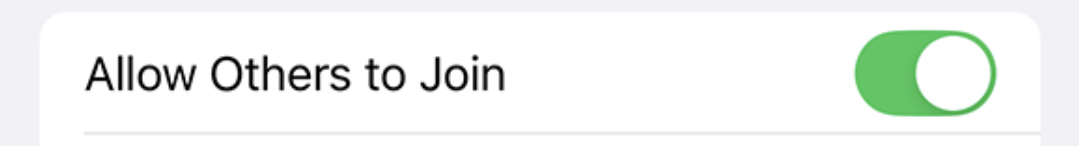
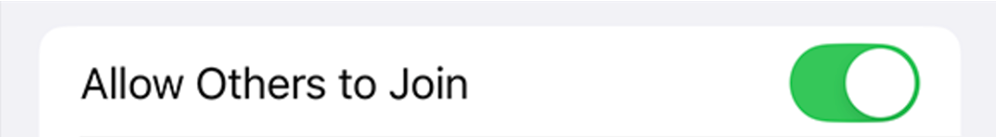
initial setup, setup tethering style for ios

Changed region(s): [[0.0622, 0.3796, 0.4669, 0.7299], [0.7781, 0.2044, 0.9337, 0.9051]]

diff --git a/lib/src/view/setup_tethering_screen.dart b/lib/src/view/setup_tethering_screen.dart
@@ -15,25 +15,27 @@ class SetupTetheringScreen extends StatelessWidget {
           mainAxisAlignment: MainAxisAlignment.center,
           crossAxisAlignment: CrossAxisAlignment.stretch,
           children: [
+            const Spacer(),
             Text(
-              'Set up personal hotspot',
+              'Set up Bluetooth Connection',
               textAlign: TextAlign.start,
               style: Theme.of(context).textTheme.titleLarge!.copyWith(fontWeight: FontWeight.bold),
             ),
-            Spacer(),
+            const SizedBox(height: 40),
             Platform.isIOS ? _buildIOSHotspotSteps(context) : _buildAndroidHotspotSteps(context),
-            Spacer(),
+            const SizedBox(height: 24),
             Text(
-              "Once you've completed these steps, come back to this screen and tap \"Continue\".",
+              "Come back to this page when you’re done.",
               textAlign: TextAlign.start,
               style: Theme.of(context).textTheme.bodyLarge,
               overflow: TextOverflow.visible,
             ),
-            Spacer(),
+            const Spacer(),
+            const Spacer(),
             FilledButton(
               onPressed: onCtaTapped,
               child: Text(
-                'Continue',
+                'Next',
                 style: TextStyle(fontWeight: FontWeight.bold),
               ),
             ),
@@ -49,33 +51,24 @@ class SetupTetheringScreen extends StatelessWidget {
     return Column(
       crossAxisAlignment: CrossAxisAlignment.start,
       children: [
-        StepTile(
-          stepNumber: '1',
-          onTap: null,
-          children: [
-            const TextSpan(text: 'In your phone\'s settings, go to '),
-            TextSpan(text: 'Settings', style: textTheme!.copyWith(fontStyle: FontStyle.italic)),
-            const TextSpan(text: ' > '),
-            TextSpan(text: 'Personal Hotspot', style: textTheme.copyWith(fontWeight: FontWeight.bold)),
-            const TextSpan(text: '\n\nMake sure "'),
-            TextSpan(text: 'Allow Others to Join', style: textTheme.copyWith(fontWeight: FontWeight.bold)),
-            const TextSpan(text: "\" is enabled"),
-          ],
+        RichText(
+          text: TextSpan(
+            style: textTheme,
+            children: [
+              const TextSpan(text: 'In your phone\'s settings, go to '),
+              TextSpan(text: 'Settings', style: textTheme!.copyWith(fontStyle: FontStyle.italic)),
+              const TextSpan(text: ' > '),
+              TextSpan(text: 'Personal Hotspot.', style: textTheme.copyWith(fontWeight: FontWeight.bold)),
+              const TextSpan(text: '\n\nMake sure "'),
+              TextSpan(text: 'Allow Others to Join', style: textTheme.copyWith(fontWeight: FontWeight.bold)),
+              const TextSpan(text: "\" is enabled:"),
+            ],
+          ),
         ),
-        Image.asset('packages/viam_flutter_bluetooth_provisioning_widget/lib/src/assets/ios_wifi_hotspot.png'),
+        const SizedBox(height: 24),
+        Text("The toggle should look like this:", style: Theme.of(context).textTheme.bodySmall),
         const SizedBox(height: 8),
-        StepTile(
-          stepNumber: '2',
-          onTap: null,
-          children: [
-            const TextSpan(text: 'Go to '),
-            TextSpan(text: 'Settings', style: textTheme.copyWith(fontStyle: FontStyle.italic)),
-            const TextSpan(text: ' > '),
-            TextSpan(text: 'Bluetooth.', style: textTheme.copyWith(fontWeight: FontWeight.bold)),
-            TextSpan(text: 'You should see your $machineName.'),
-            const TextSpan(text: '\n\nTap to pair, and accept any pairing dialogs that pop up.'),
-          ],
-        ),
+        Image.asset('packages/viam_flutter_bluetooth_provisioning_widget/lib/src/assets/ios_wifi_hotspot.png'),
       ],
     );
   }
@@ -86,33 +79,22 @@ class SetupTetheringScreen extends StatelessWidget {
     return Column(
       crossAxisAlignment: CrossAxisAlignment.start,
       children: [
-        StepTile(
-          stepNumber: '1',
-          onTap: null,
-          children: [
-            const TextSpan(text: "In your phone's settings, go to "),
-            TextSpan(text: "Network & internet", style: textTheme!.copyWith(fontWeight: FontWeight.bold)),
-            const TextSpan(text: ", then "),
-            TextSpan(text: "Hotspot & tethering", style: textTheme.copyWith(fontWeight: FontWeight.bold)),
-            const TextSpan(text: '\n\nMake sure '),
-            TextSpan(text: 'Bluetooth tethering', style: textTheme.copyWith(fontWeight: FontWeight.bold)),
-            const TextSpan(text: " is enabled"),
-          ],
+        RichText(
+          text: TextSpan(
+            style: textTheme,
+            children: [
+              TextSpan(text: '1. ', style: textTheme!.copyWith(fontWeight: FontWeight.bold)),
+              const TextSpan(text: "In your phone's settings, go to "),
+              TextSpan(text: "Network & internet", style: textTheme.copyWith(fontWeight: FontWeight.bold)),
+              const TextSpan(text: ", then "),
+              TextSpan(text: "Hotspot & tethering", style: textTheme.copyWith(fontWeight: FontWeight.bold)),
+              const TextSpan(text: '\n\nMake sure '),
+              TextSpan(text: 'Bluetooth tethering', style: textTheme.copyWith(fontWeight: FontWeight.bold)),
+              const TextSpan(text: " is enabled"),
+            ],
+          ),
         ),
         Image.asset('packages/viam_flutter_bluetooth_provisioning_widget/lib/src/assets/android_wifi_hotspot.png'),
-        const SizedBox(height: 8),
-        StepTile(
-          stepNumber: '2',
-          onTap: null,
-          children: [
-            const TextSpan(text: 'Go to '),
-            TextSpan(text: 'Settings', style: textTheme.copyWith(fontStyle: FontStyle.italic)),
-            const TextSpan(text: ' > '),
-            TextSpan(text: 'Bluetooth.', style: textTheme.copyWith(fontWeight: FontWeight.bold)),
-            TextSpan(text: 'You should see your $machineName.'),
-            const TextSpan(text: '\n\nTap to pair, and accept any pairing dialogs that pop up.'),
-          ],
-        ),
       ],
     );
   }

diff --git a/lib/src/flow/bluetooth_tethering_flow.dart b/lib/src/flow/bluetooth_tethering_flow.dart
@@ -139,16 +139,11 @@ class _BluetoothTetheringFlowState extends State<BluetoothTetheringFlow> {
                         cellularSubtitle: widget.viewModel.copy.connectionMethodCellularSubtitle,
                       ),
                       if (_connectionOption == InternetConnectionOption.cellular && widget.viewModel.device != null) ...[
-                        BluetoothCellularInfoScreen(
-                          handleCtaTapped: _unlockBluetoothPairing,
-                          title: widget.viewModel.copy.bluetoothCellularInfoTitle,
-                          subtitle: widget.viewModel.copy.bluetoothCellularInfoSubtitle,
-                          ctaText: widget.viewModel.copy.bluetoothCellularInfoCta,
-                        ),
                         SetupTetheringScreen(
-                          onCtaTapped: _onNextPage,
+                          onCtaTapped: _unlockBluetoothPairing,
                           machineName: widget.viewModel.copy.tetheringMachineName,
                         ),
+                        PairingInstructionsScreen(onCtaTapped: _onNextPage),
                         // If the machine is configured already (has machine credentials) and gets a connection from tethering,
                         // we won't be able to check agent online. The agent bluetooth service will be shut down at this point.
                         // The machine will be online in app.viam.com and we should skip to that check instead.

diff --git a/lib/src/view/pairing_instructions_screen.dart b/lib/src/view/pairing_instructions_screen.dart
@@ -1,0 +1,42 @@
+part of '../../viam_flutter_bluetooth_provisioning_widget.dart';
+
+class PairingInstructionsScreen extends StatelessWidget {
+  final VoidCallback onCtaTapped;
+  // TODO: title, subtitle
+
+  const PairingInstructionsScreen({super.key, required this.onCtaTapped});
+
+  @override
+  Widget build(BuildContext context) {
+    return Center(
+      child: Padding(
+        padding: const EdgeInsets.symmetric(horizontal: 24, vertical: 16),
+        child: Column(
+          mainAxisAlignment: MainAxisAlignment.center,
+          crossAxisAlignment: CrossAxisAlignment.stretch,
+          children: [
+            Text(
+              'Pair with your machine.',
+              textAlign: TextAlign.start,
+              style: Theme.of(context).textTheme.titleLarge!.copyWith(fontWeight: FontWeight.bold),
+            ),
+            Text(
+              "TODO: LONG TEXT, iOS AND ANDROID SPECIFIC",
+              textAlign: TextAlign.start,
+              style: Theme.of(context).textTheme.bodyLarge,
+              overflow: TextOverflow.visible,
+            ),
+            Spacer(),
+            FilledButton(
+              onPressed: onCtaTapped,
+              child: Text(
+                'Continue',
+                style: TextStyle(fontWeight: FontWeight.bold),
+              ),
+            ),
+          ],
+        ),
+      ),
+    );
+  }
+}

diff --git a/lib/src/models/bluetooth_provisioning_flow_copy.dart b/lib/src/models/bluetooth_provisioning_flow_copy.dart
@@ -51,11 +51,6 @@ class BluetoothProvisioningFlowCopy {
     // Connection method
     this.connectionMethodCellularSubtitle =
         'If your machine doesn\'t have Internet, you can use Bluetooth to share your phone\'s cellular connection with the machine.',
-    // Bluetooth cellular info
-    this.bluetoothCellularInfoTitle = 'No Wi-Fi? Use Bluetooth instead',
-    this.bluetoothCellularInfoSubtitle =
-        'If your machine doesn\'t have Internet, you can use Bluetooth to share your phone’s cellular connection with the machine.',
-    this.bluetoothCellularInfoCta = 'Continue',
     // Tethering
     this.tetheringMachineName = 'machine',
     // Check agent online
@@ -115,11 +110,6 @@ class BluetoothProvisioningFlowCopy {
 
   // Connection method
   final String connectionMethodCellularSubtitle;
-
-  // Bluetooth cellular info
-  final String bluetoothCellularInfoTitle;
-  final String bluetoothCellularInfoSubtitle;
-  final String bluetoothCellularInfoCta;
 
   // Tethering
   final String tetheringMachineName;

diff --git a/lib/viam_flutter_bluetooth_provisioning_widget.dart b/lib/viam_flutter_bluetooth_provisioning_widget.dart
@@ -30,8 +30,8 @@ part 'src/view/intro_screen_one.dart';
 part 'src/view/intro_screen_two.dart';
 part 'src/view/name_connected_device_screen.dart';
 part 'src/view/choose_connection_method_screen.dart';
-part 'src/view/bluetooth_cellular_info_screen.dart';
 part 'src/view/setup_tethering_screen.dart';
+part 'src/view/pairing_instructions_screen.dart';
 part 'src/view/check_agent_online_screen.dart';
 
 // widgets
